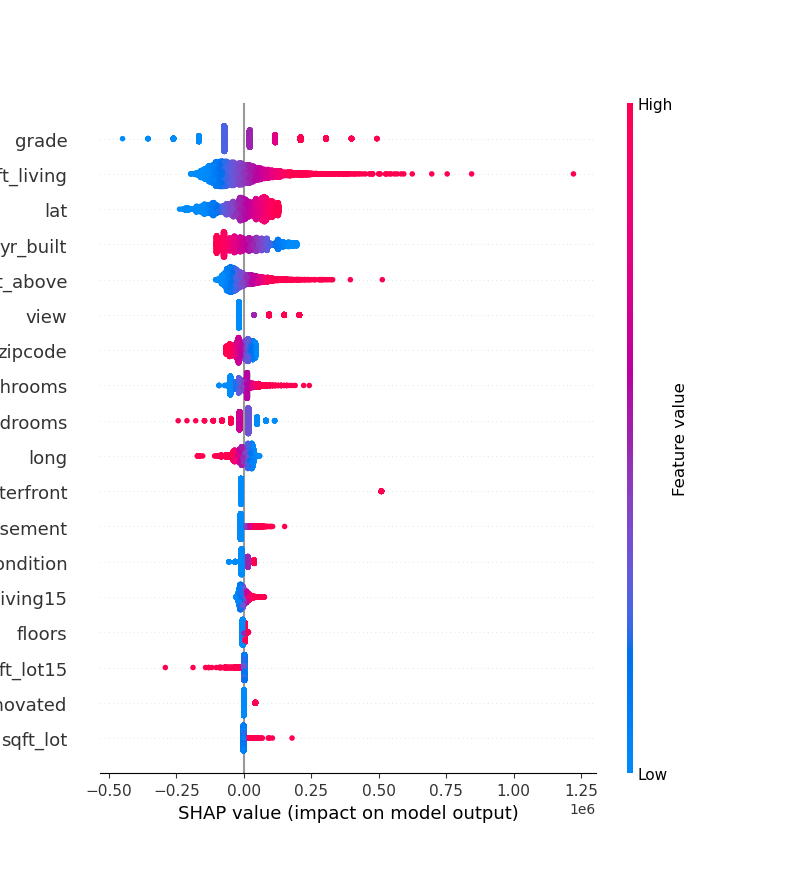
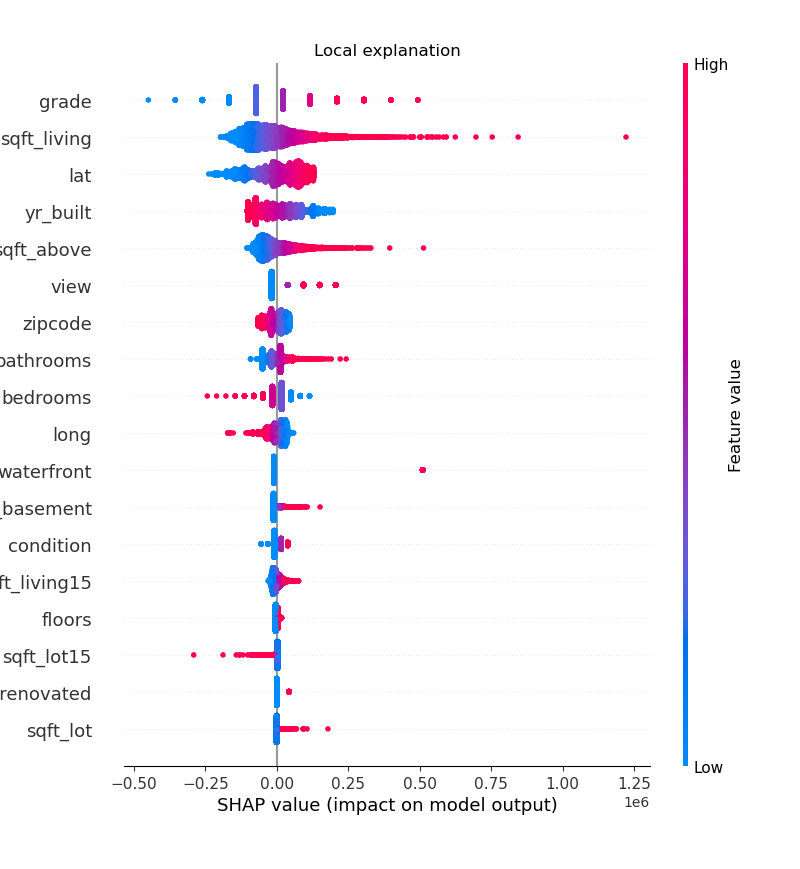
Second commit.

diff --git a/templates/local_result.html b/templates/local_result.html
@@ -38,7 +38,9 @@
             </div>
         </div>
     </div>
-    <div class="container text-center" style="height: 402px;"><img src="{{LIME}}" alt="Chart" style="width: 800px;height: 513px;"></div>
+{{ LIME|safe }}
+{{ gh|safe }}
+    <div class="container text-center" style="height: 402px;">{{ SH|safe }}</div>
     <div class="container text-center" style="margin-top: 30px;"><button class="btn btn-primary" type="button">Check Another</button></div>
     <div></div>
     <div></div>

diff --git a/app.py b/app.py
@@ -9,6 +9,7 @@ ff = []
 
 import plotly.graph_objects as go # or plotly.express as px
 
+import mpld3
 
 fig = go.Figure(
     data=[go.Bar(x=[1, 2, 3], y=[1, 3, 2])],
@@ -281,7 +282,7 @@ def upload2():
     print('hh ',hh)
     for file in request.files.getlist("gg"):
         print(file)
-    print('end')
+    print(list(X_data.columns))
     
     
     series = pd.Series(hh) 
@@ -295,11 +296,26 @@ def upload2():
     # load JS visualization code to notebook
     shap.initjs()
     
-    plt.style.use("_classic_test_patch")  
-    
+    #plt.style.use("_classic_test_patch")  
+    #plt.clf()
     # visualize the first prediction's explanation (use matplotlib=True to avoid Javascript)
     #shap.force_plot(explainer.expected_value, shap_values[1,:], series, matplotlib=True, figsize=(22, 4))
-    shap.force_plot(explainer.expected_value, shap_values[10,:], series)             
+    #shap.force_plot(explainer.expected_value, shap_values[10,:],  \
+    #                series,feature_names=X_data.columns,\
+     #               matplotlib=True, show=False)   
+    
+    
+    
+    
+   # plt.savefig("gg.png",dpi=150, bbox_inches='tight')
+        
+    #yyy = shap.getjs()
+    '''
+    oo = yyy.matplotlib
+    p = yyy.html  
+    yyy_str = mpld3.fig_to_html(p)  
+    print('dfsdfsdf ',p)     
+    '''
     series = series.tolist()
     print('im a he ',series)
     pp = []
@@ -308,7 +324,6 @@ def upload2():
             j = float(j)
             pp.append(j)
 
-    
     
     
     
@@ -333,19 +348,46 @@ def upload2():
                                  discretize_continuous=False,
                                  kernel_width=0.2) 
     
-    exp = explainer.explain_instance(series, model.predict, )
+    exp = explainer.explain_instance(series, model.predict )
                                      
     print(exp.local_pred)
     
-    exp.as_pyplot_figure()
+    fig = exp.as_pyplot_figure(label = list(X_data.columns))
+    
+    fig_2 = exp.as_html(labels = list(X_data.columns))
+    #print('dddd ',fig_2)
+    
     plt.tight_layout()
-    plt.savefig('static/img/new34_plot.png')
-    plt.close()
+    #fig = plt.figure(figsize = (18,8))
+    
+#    plt.tight_layout()
+#    #plt.boxplot(bank_data.transpose())
+#
+#    #Add titles to the chart and axes
+#    plt.hist(bank_data.transpose(), bins = 50)
+#    plt.title('Boxplot of Bank Stock Prices (5Y Lookback)')
+#    plt.xlabel('Bank')
+#    plt.ylabel('Stock Prices')
+#        
+    #mpld3.show(fig)
+    #
+    html_str = mpld3.fig_to_html(fig)
+    Html_file= open("templates/lime.html","w")
+    Html_file.write(html_str)
+    Html_file.close()
+    #
+    
+    
+    
+    
+    
+   # plt.savefig('static/img/new34_plot.png')
+    #plt.close()
     
        
         
     
-    return render_template('local_result.html', LIME = "static/img/new34_plot.png")
+    return render_template('local_result.html', LIME = html_str, SH = fig_2, gh = html_str)
 
 
 
